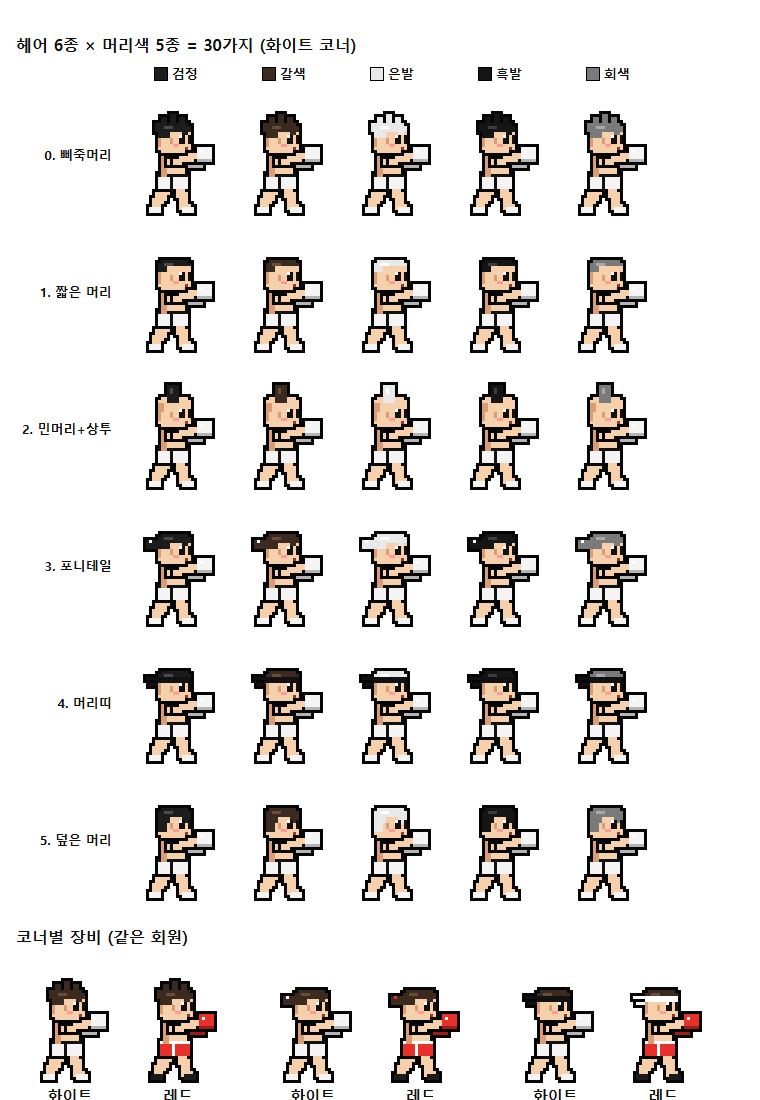
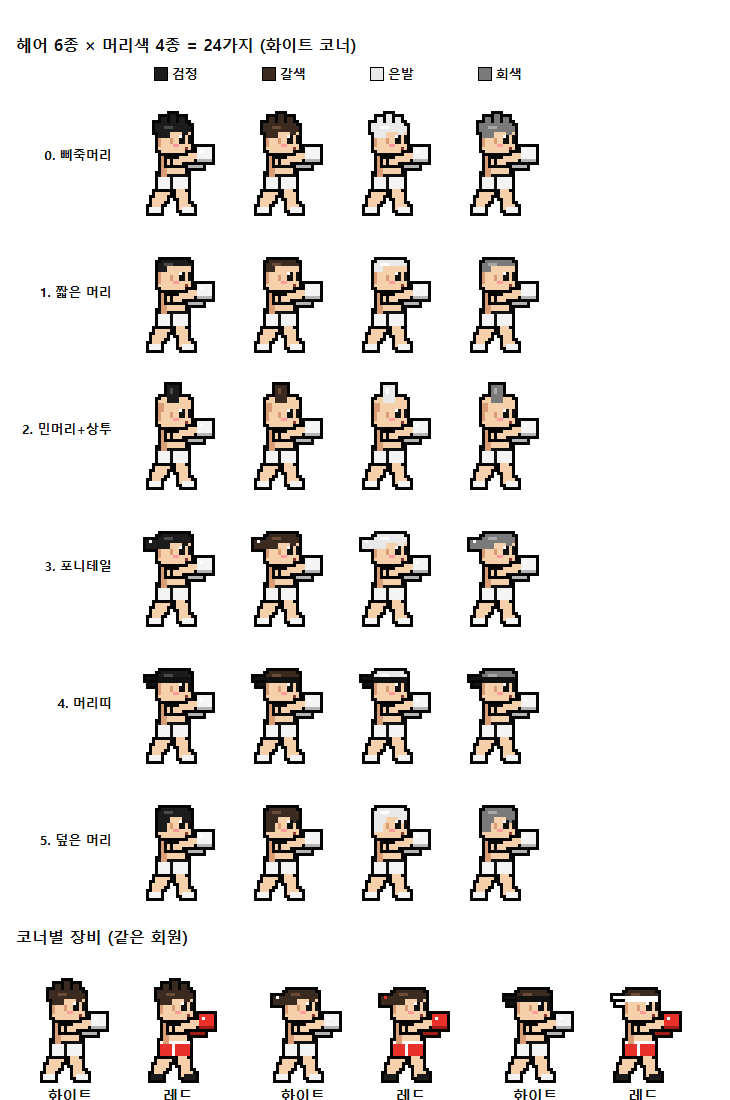
feat: 머리색에서 흑발 제거 (검정과 구분 안 됨)

diff --git a/public/arena.js b/public/arena.js
@@ -31,7 +31,7 @@
     L: { glove: '#f4f4f4', gloveS: '#b5b5b5', trunk: '#f4f4f4', stripe: '#111111', shoe: '#f4f4f4', tag: '#ffffff', band: '#111111' },
     R: { glove: '#e8302b', gloveS: '#a01c18', trunk: '#e8302b', stripe: '#ffffff', shoe: '#1b1b1b', tag: '#ff4b45', band: '#ffffff' },
   };
-  const HAIR = [['#1c1c1c', '#4a4a4a'], ['#3b2a20', '#6a4c39'], ['#e9e9e9', '#ffffff'], ['#151515', '#3d3d3d'], ['#7a7a7a', '#a8a8a8']];
+  const HAIR = [['#1c1c1c', '#4a4a4a'], ['#3b2a20', '#6a4c39'], ['#e9e9e9', '#ffffff'], ['#7a7a7a', '#a8a8a8']];
 
   const clamp01 = (t) => Math.max(0, Math.min(1, t));
   const bump = (t) => Math.sin(Math.PI * clamp01(t));

diff --git a/README.md b/README.md
@@ -83,7 +83,7 @@ Redis 환경변수가 있으면 **Upstash Redis**, 없으면 로컬 파일.
 - `PixelFighter.url(id, {pose})` 로 같은 캐릭터를 아바타·프로필에도 사용, 로그인 화면은 데모 스파링
 
 ### 캐릭터 스킨
-회원 ID 해시로 **헤어 6종 × 머리색 5종 = 30가지** 중 하나가 자동으로 정해집니다 (같은 회원은 어디서나 같은 모습). 장비 색은 코너로 정해집니다: 화이트 코너(흰 글러브·트렁크) / 레드 코너(빨간 글러브·트렁크, 검정 신발).
+회원 ID 해시로 **헤어 6종 × 머리색 4종 = 24가지** 중 하나가 자동으로 정해집니다 (같은 회원은 어디서나 같은 모습). 장비 색은 코너로 정해집니다: 화이트 코너(흰 글러브·트렁크) / 레드 코너(빨간 글러브·트렁크, 검정 신발).
 
 ![가능한 캐릭터](docs/characters.png)
 
